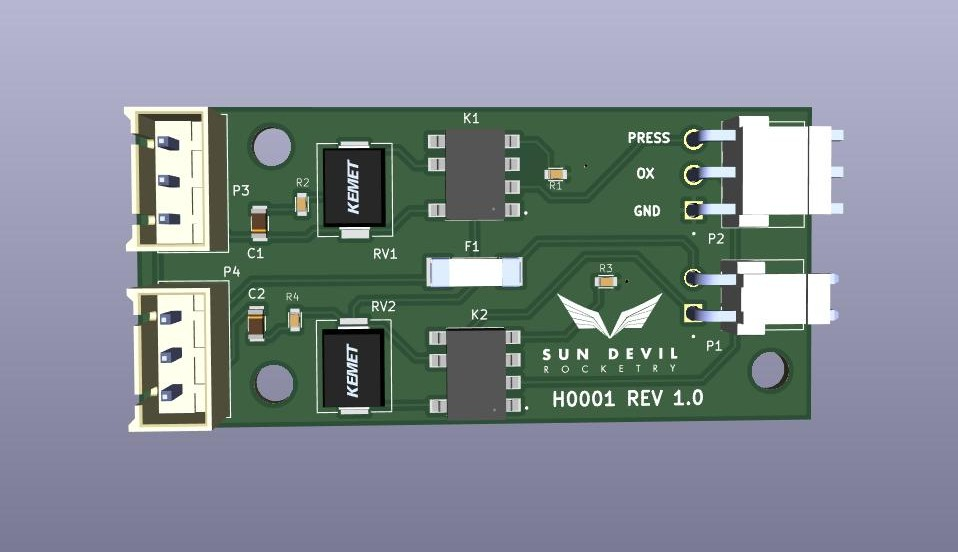
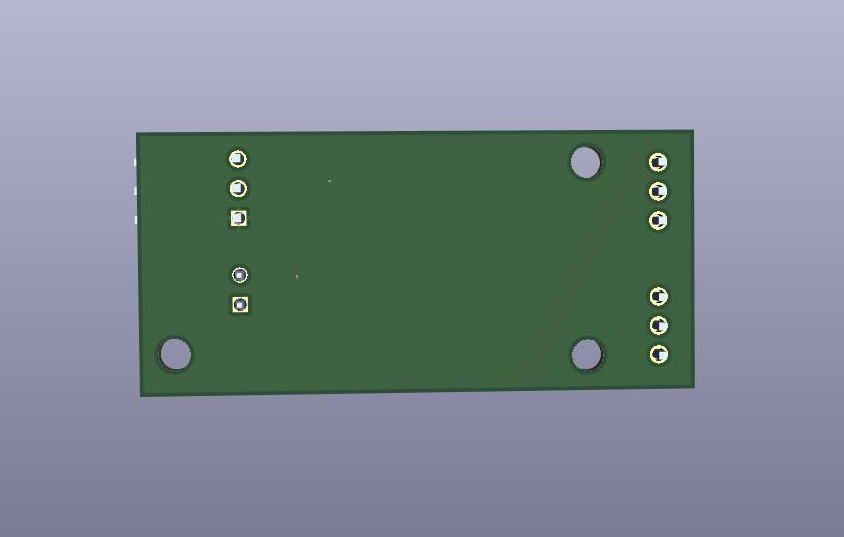
Added 3D model to readme

Changed region(s): [[0.1232, 0.1788, 0.8934, 0.8045], [0.6161, 0.4767, 0.6469, 0.5363]]

diff --git a/README.md b/README.md
@@ -25,3 +25,8 @@ pressurization and main oxidizer valves. </p>
   
    img: images of circuit/footprints for github display 
 </p>
+
+<h2>3D Model: </h2>
+
+<img src="img/H0001-Solenoid-Driver-TOP.jpg">
+<img src="img/H0001-Solenoid-Driver-BOTTOM.jpg">
